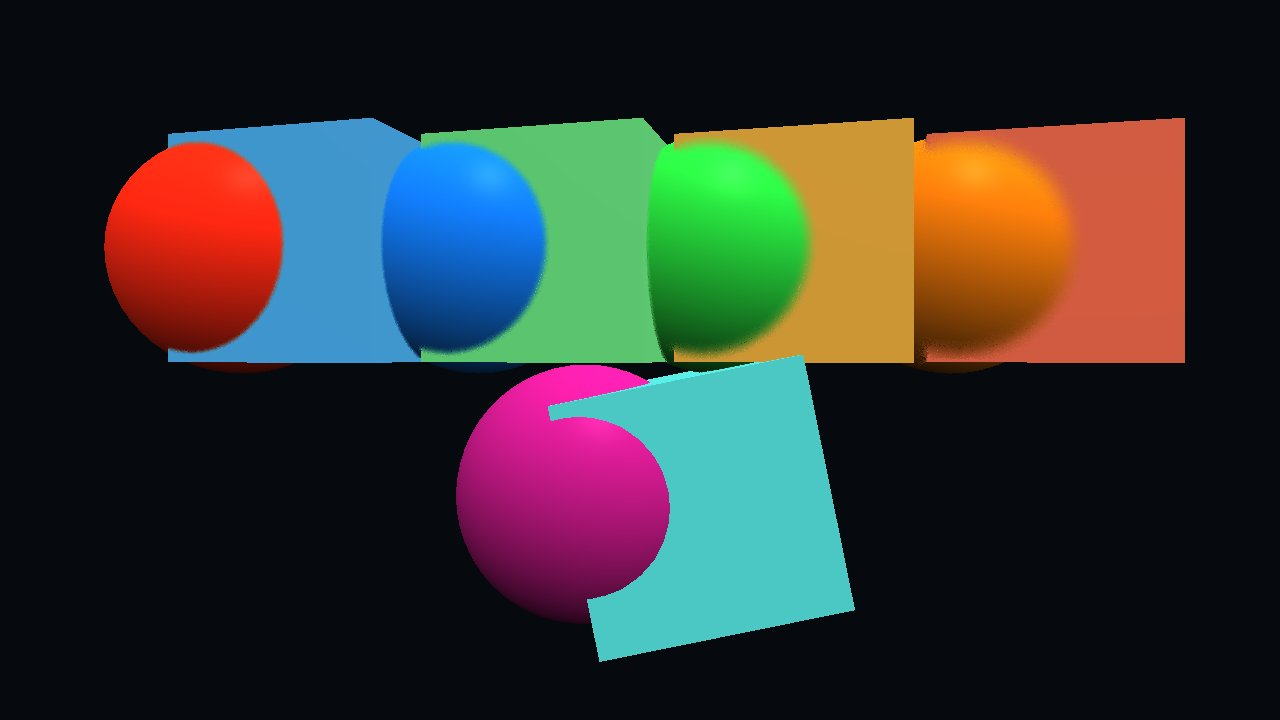
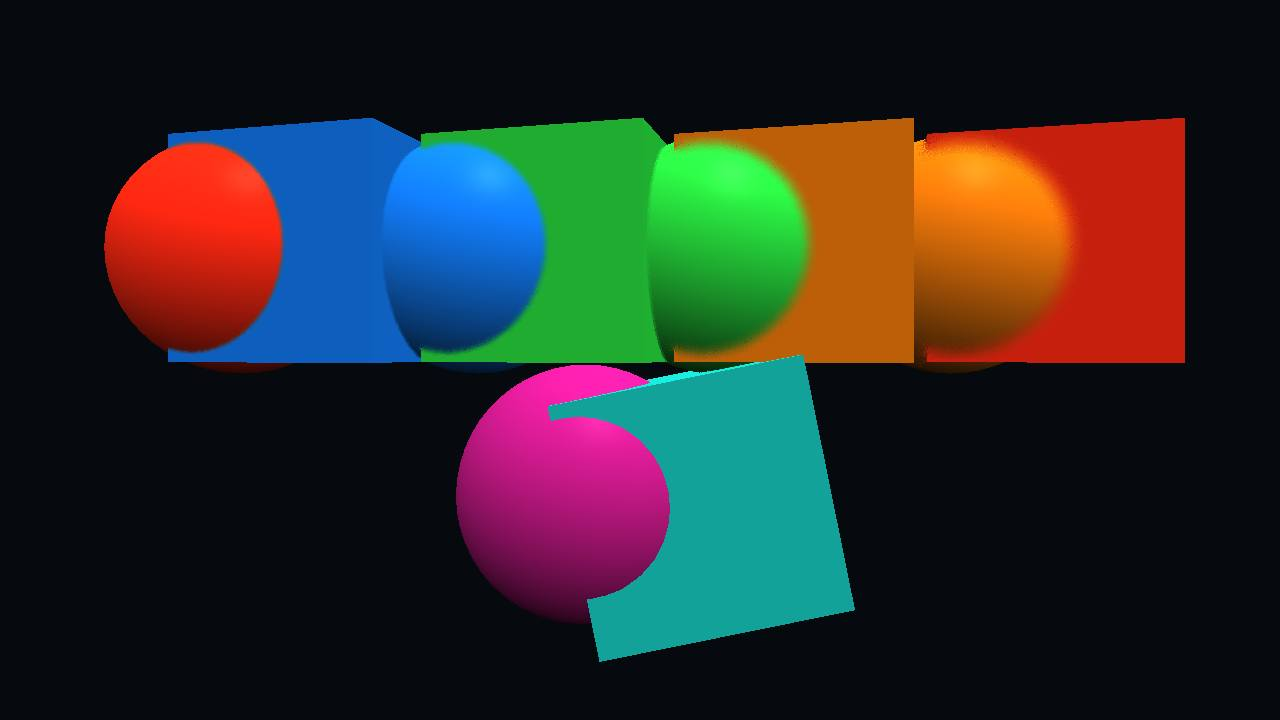
Reduce mesh blending scene bundle size
Copilot-Session: 4bb074b8-2fc1-4770-bbcf-3e78dfb6da7c

Changed region(s): [[0.125, 0.1528, 0.9375, 0.9167]]

diff --git a/lab/lite/src/bjs/scene310.ts b/lab/lite/src/bjs/scene310.ts
@@ -9,7 +9,6 @@ import { FrameGraphObjectRendererTask } from "@babylonjs/core/FrameGraph/Tasks/R
 import { FrameGraphCopyToBackbufferColorTask } from "@babylonjs/core/FrameGraph/Tasks/Texture/copyToBackbufferColorTask";
 import { FrameGraphClearTextureTask } from "@babylonjs/core/FrameGraph/Tasks/Texture/clearTextureTask";
 import { HemisphericLight } from "@babylonjs/core/Lights/hemisphericLight";
-import { PBRMetallicRoughnessMaterial } from "@babylonjs/core/Materials/PBR/pbrMetallicRoughnessMaterial";
 import { StandardMaterial } from "@babylonjs/core/Materials/standardMaterial";
 import { Color3, Color4 } from "@babylonjs/core/Maths/math.color";
 import { Vector3 } from "@babylonjs/core/Maths/math.vector";
@@ -46,11 +45,10 @@ const COLORS = [new Color3(1.15, 0.18, 0.08), new Color3(0.08, 0.55, 1.1), new C
         const box = MeshBuilder.CreateBox(`box-${i}`, { size: 2.35 }, scene);
         box.position.set(xs[i]! + 0.48, 1.05, 0.1);
         box.rotation.y = 0.25;
-        const pbr = new PBRMetallicRoughnessMaterial(`pbr-${i}`, scene);
-        pbr.baseColor = COLORS[(i + 1) % COLORS.length]!;
-        pbr.metallic = 0.15;
-        pbr.roughness = 0.72;
-        box.material = pbr;
+        const boxMaterial = new StandardMaterial(`box-standard-${i}`, scene);
+        boxMaterial.diffuseColor = COLORS[(i + 1) % COLORS.length]!;
+        boxMaterial.specularColor = new Color3(0.08, 0.08, 0.08);
+        box.material = boxMaterial;
         box.meshBlendingTag = PackMeshBlendingTag(2 + i * 2, i as MeshBlendingRadiusClass);
     }
 
@@ -65,11 +63,10 @@ const COLORS = [new Color3(1.15, 0.18, 0.08), new Color3(0.08, 0.55, 1.1), new C
     const sameGroupBox = MeshBuilder.CreateBox("same-group-box", { size: 2.55 }, scene);
     sameGroupBox.position.set(0.6, -1.55, 0.1);
     sameGroupBox.rotation.z = 0.2;
-    const samePbr = new PBRMetallicRoughnessMaterial("same-pbr", scene);
-    samePbr.baseColor = new Color3(0.1, 0.9, 0.85);
-    samePbr.metallic = 0.05;
-    samePbr.roughness = 0.8;
-    sameGroupBox.material = samePbr;
+    const sameBoxMaterial = new StandardMaterial("same-box-standard", scene);
+    sameBoxMaterial.diffuseColor = new Color3(0.1, 0.9, 0.85);
+    sameBoxMaterial.specularColor = new Color3(0.05, 0.05, 0.05);
+    sameGroupBox.material = sameBoxMaterial;
     sameGroupBox.meshBlendingTag = PackMeshBlendingTag(20, MeshBlendingRadiusClass.Small);
 
     const frameGraph = new FrameGraph(scene, true);

diff --git a/lab/lite/src/lite/scene310.ts b/lab/lite/src/lite/scene310.ts
@@ -7,7 +7,6 @@ import {
     createGeometryRendererTask,
     createHemisphericLight,
     createMeshBlendingPostProcessTask,
-    createPbrMaterial,
     createRenderTarget,
     createSceneContext,
     createSphere,
@@ -59,11 +58,10 @@ async function main(): Promise<void> {
         const box = createBox(engine, 2.35);
         box.position.set(xs[i]! + 0.48, 1.05, 0.1);
         box.rotation.y = 0.25;
-        box.material = createPbrMaterial({
-            baseColorFactor: [COLORS[(i + 1) % COLORS.length]![0], COLORS[(i + 1) % COLORS.length]![1], COLORS[(i + 1) % COLORS.length]![2], 1],
-            metallicFactor: 0.15,
-            roughnessFactor: 0.72,
-        });
+        const boxMaterial = createStandardMaterial();
+        boxMaterial.diffuseColor = COLORS[(i + 1) % COLORS.length]!;
+        boxMaterial.specularColor = [0.08, 0.08, 0.08];
+        box.material = boxMaterial;
         box.meshBlendingTag = packMeshBlendingTag(2 + i * 2, i as MeshBlendingRadiusClass);
         addToScene(scene, box);
     }
@@ -80,7 +78,10 @@ async function main(): Promise<void> {
     const sameGroupBox = createBox(engine, 2.55);
     sameGroupBox.position.set(0.6, -1.55, 0.1);
     sameGroupBox.rotation.z = 0.2;
-    sameGroupBox.material = createPbrMaterial({ baseColorFactor: [0.1, 0.9, 0.85, 1], metallicFactor: 0.05, roughnessFactor: 0.8 });
+    const sameBoxMaterial = createStandardMaterial();
+    sameBoxMaterial.diffuseColor = [0.1, 0.9, 0.85];
+    sameBoxMaterial.specularColor = [0.05, 0.05, 0.05];
+    sameGroupBox.material = sameBoxMaterial;
     sameGroupBox.meshBlendingTag = packMeshBlendingTag(20, MeshBlendingRadiusClass.Small);
     addToScene(scene, sameGroupBox);
 

diff --git a/docs/lite/architecture/55-mesh-blending.md b/docs/lite/architecture/55-mesh-blending.md
@@ -1025,7 +1025,7 @@ IDs `310..315` contain six focused scenes. Scene 315 is the user-approved except
 
 |  ID | Coverage                                                                                                         |
 | --: | ---------------------------------------------------------------------------------------------------------------- |
-| 310 | Core Standard/PBR intersections, default Medium/view-depth behavior, packed radius classes, and same-group seam  |
+| 310 | Core Standard intersections, default Medium/view-depth behavior, packed radius classes, and same-group seam      |
 | 311 | Three large ShadowAttenuation seams comparing no albedo on the left with linear albedo on the right              |
 | 312 | Nearly full-frame orthographic panels using reverse-Z screen depth, High quality, and custom radius/slope values |
 | 313 | Alpha-tested Standard/PBR materials proving discarded fragments write no tag                                     |
